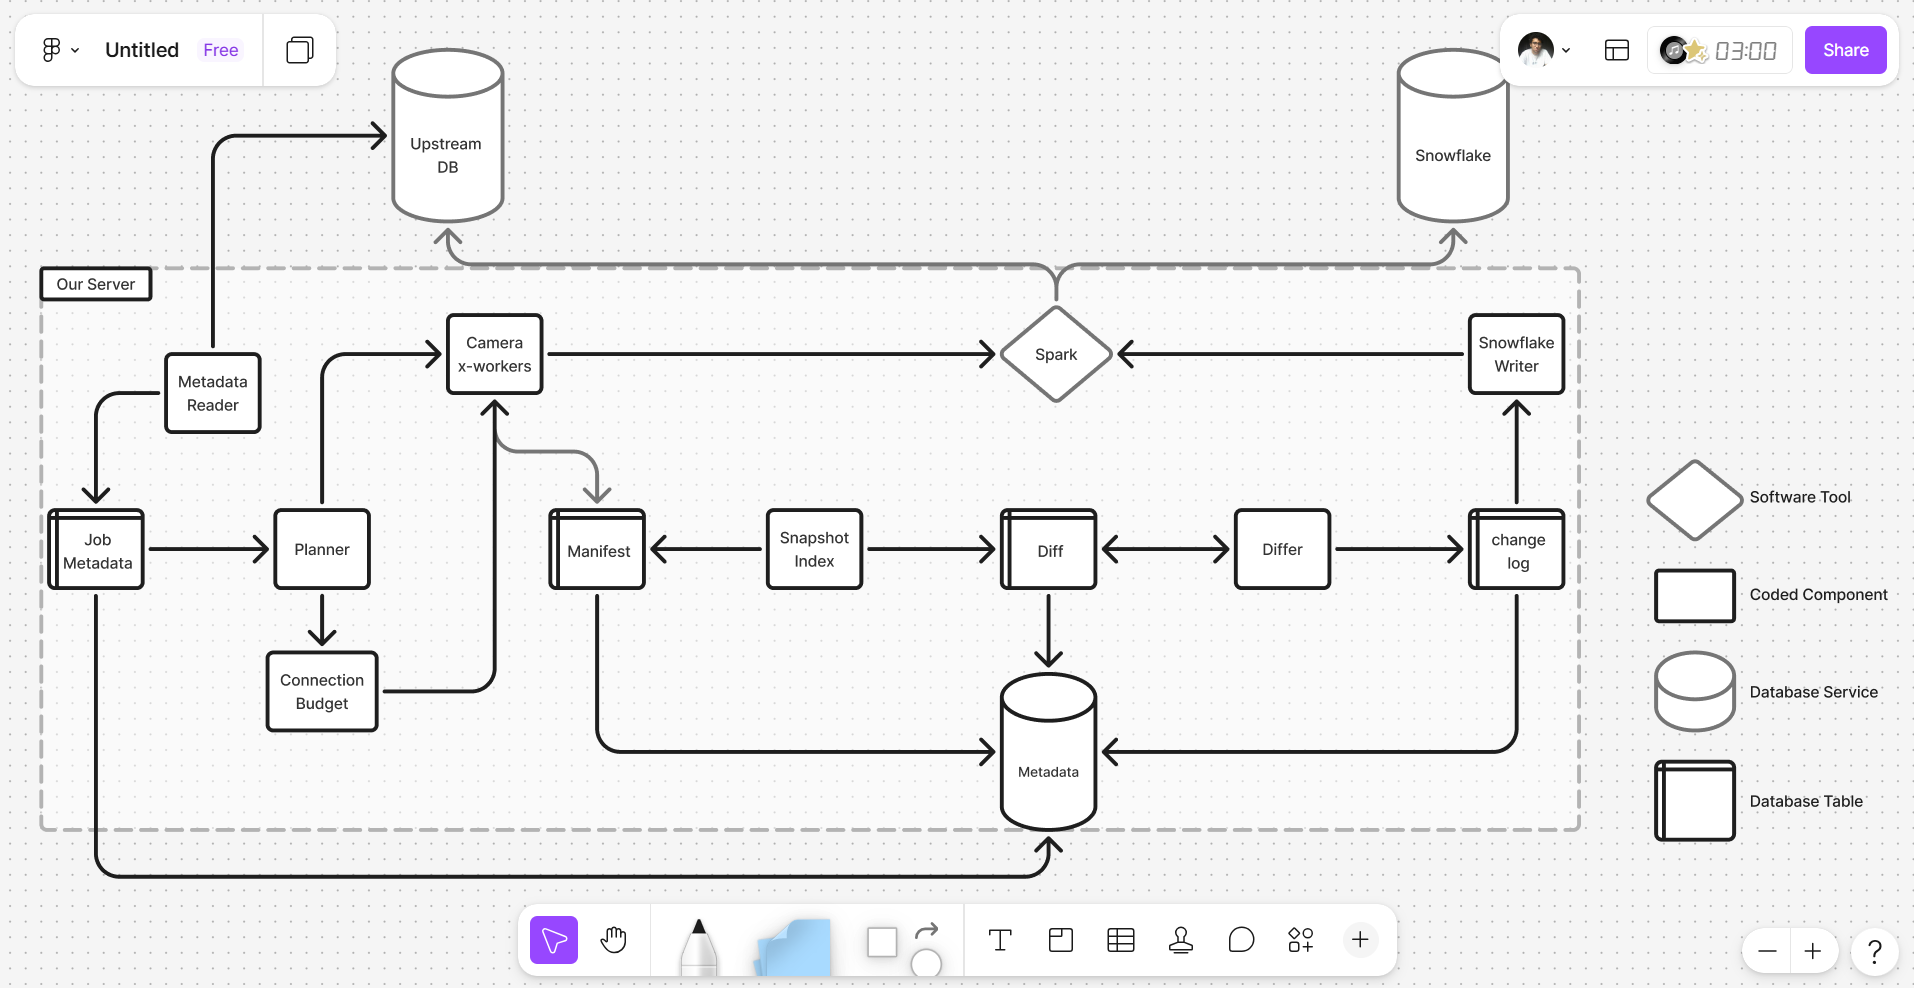
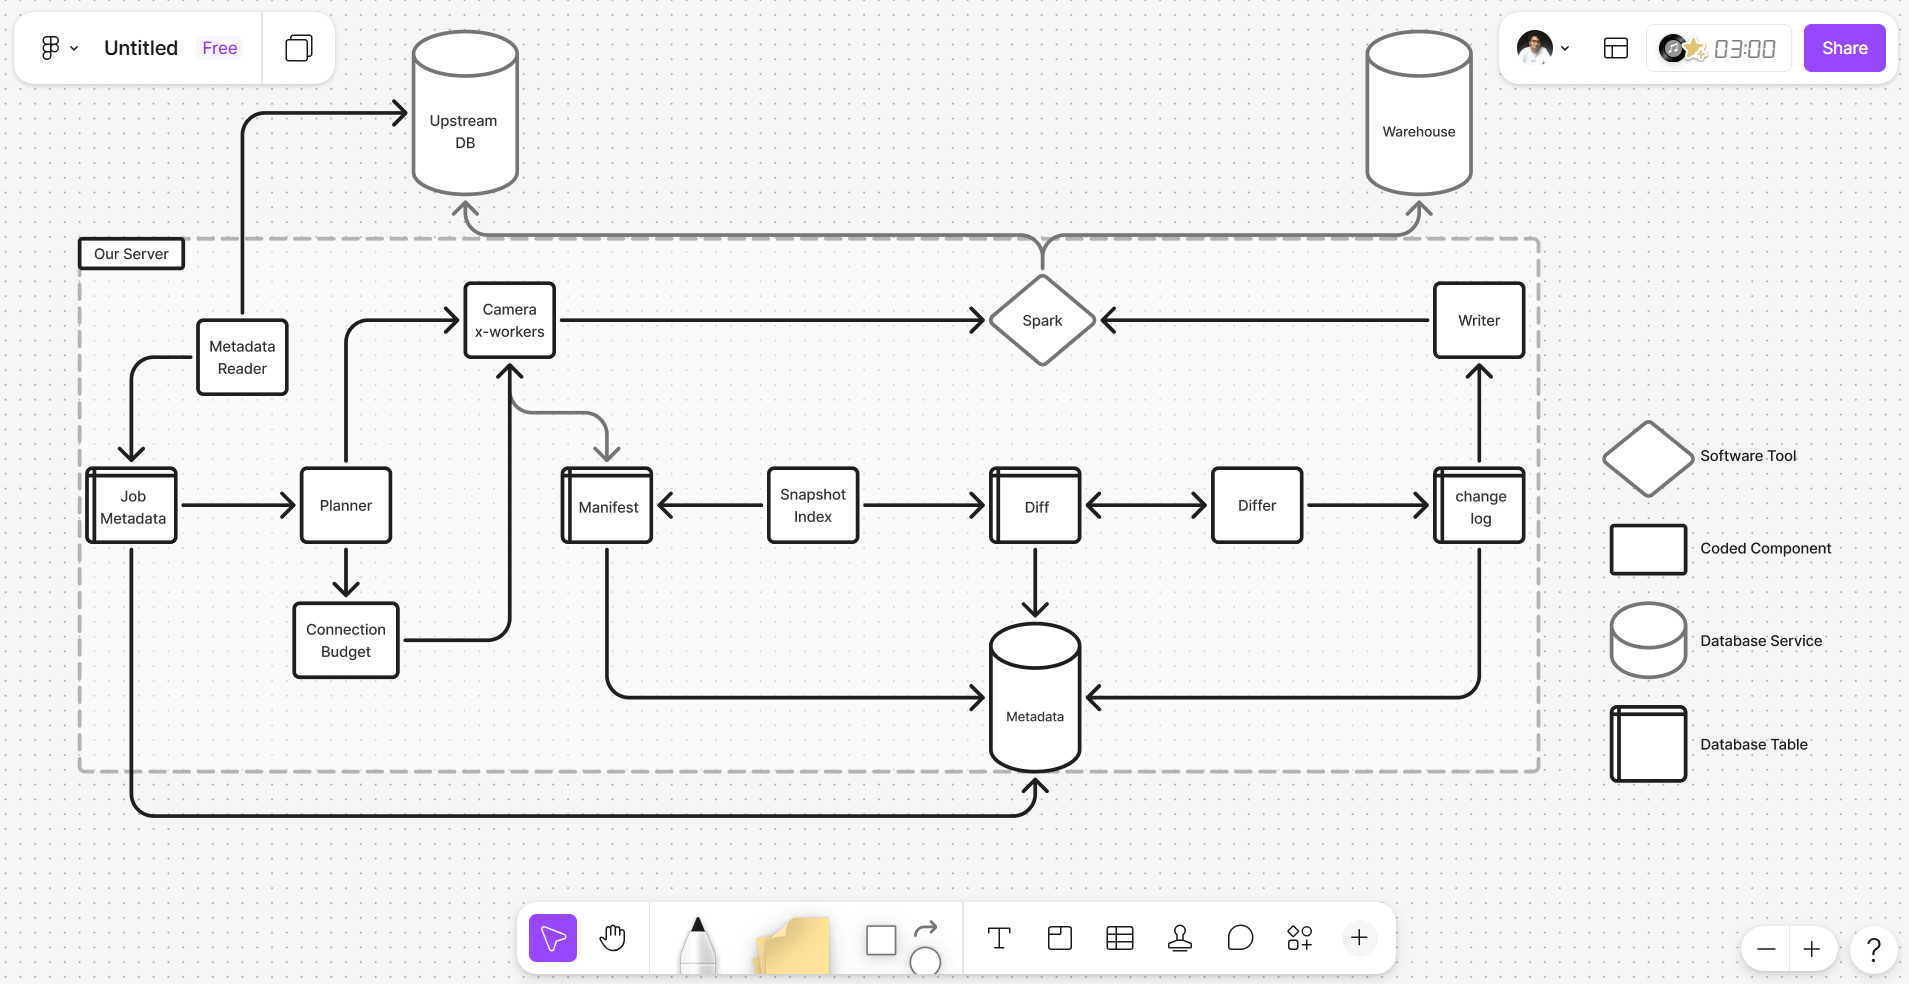
images

diff --git a/_posts/2026-09-19-my-post.md b/_posts/2026-09-19-my-post.md
@@ -15,7 +15,7 @@ If you’re not a data engineer, here is a hint. The standard practice for data 
 
 Usually, you need a set of pointers on the changes happening so you only move the changes \- [Read about CDC](https://www.databricks.com/blog/what-is-change-data-capture). My situation was far more complicated. No pointers, no CDCs, no stable updated at column. Nothing, just a very limited read access to a certain database. 
 
-Resources? A Tiny snowflake budget \-, and  VM that is running a fleet of spark operations doing the backend data applications. And access to spotify premium (I pay for it)
+Resources? A Tiny warehouse service budget \-, and  VM that is running a fleet of spark operations doing the backend data applications. And access to spotify premium (I pay for it)
 
 And we want the data to be updated every two hours, and 0.5% error rate ( I always aim for 100% anyway, my reconcilers are telling me so). 
 
@@ -28,8 +28,7 @@ And we want the data to be updated every two hours, and 0.5% error rate ( I alwa
 ### Non-Functional Requirements: 
 
 - Scalable. Very. If the size is 30GB in the beta phase, in a year this size is expected to at least triple.   
-- The DevOps team can only stream hand picked selected tables to a certain extent. Above this threshold, the server can no longer serve the data pipelines.  
-- The schema is pre-defined by a third-party partner that provides the trading software. It can not be manipulated to serve the data pipelines.
+- The Tech ops can not provide a data stream from their end. 
 
 ### Decisions Before the Architecture:
 
@@ -55,7 +54,7 @@ And though this is a replica of an active active database setup in the second no
 
 #### 3- The Bright Side: Full Control Over the Downstream:
 
-Now, here is where I get to optimize for Snowflake’s budget. Where I get to optimize for my own servers and processors. Where I can make use of Parquet’s compression (according to my calculation it’s 85:1 ratio). Where I can surgically modify my current tables at nearly no mentionable extra budget. Where I also get to use my codebase’s originally built functionalities. Helpers, Readers, Writers, Exceptions and Configs. 
+Now, here is where I get to optimize for the warehouse’s budget. Where I get to optimize for my own servers and processors. Where I can make use of Parquet’s compression (according to my calculation it’s 85:1 ratio). Where I can surgically modify my current tables at nearly no mentionable extra budget. Where I also get to use my codebase’s originally built functionalities. Helpers, Readers, Writers, Exceptions and Configs. 
 
 ### The Implementation:
 
